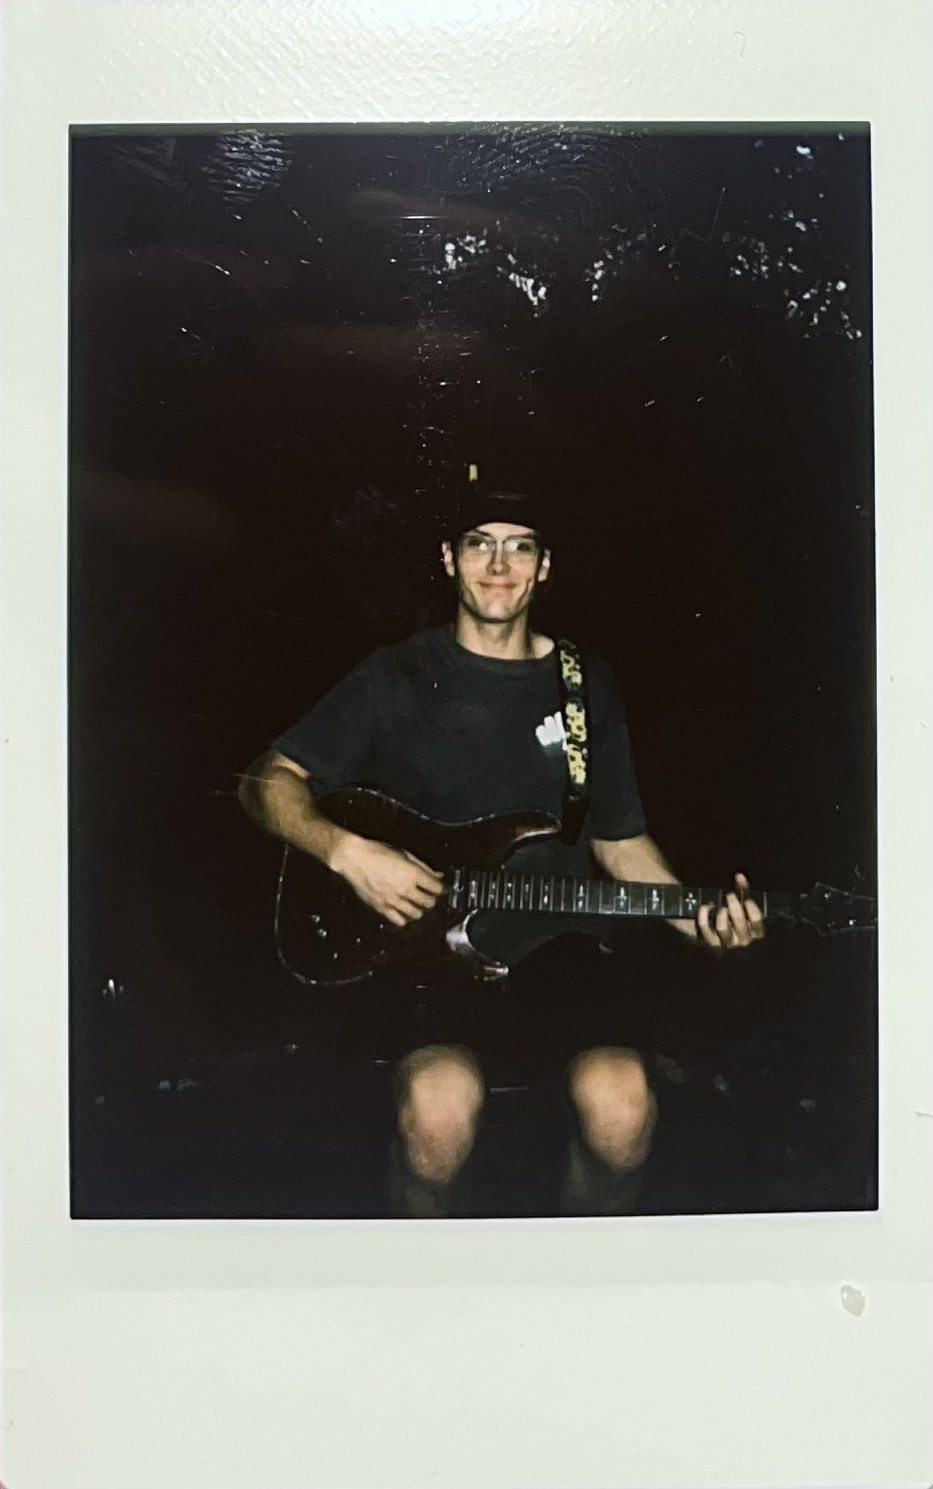
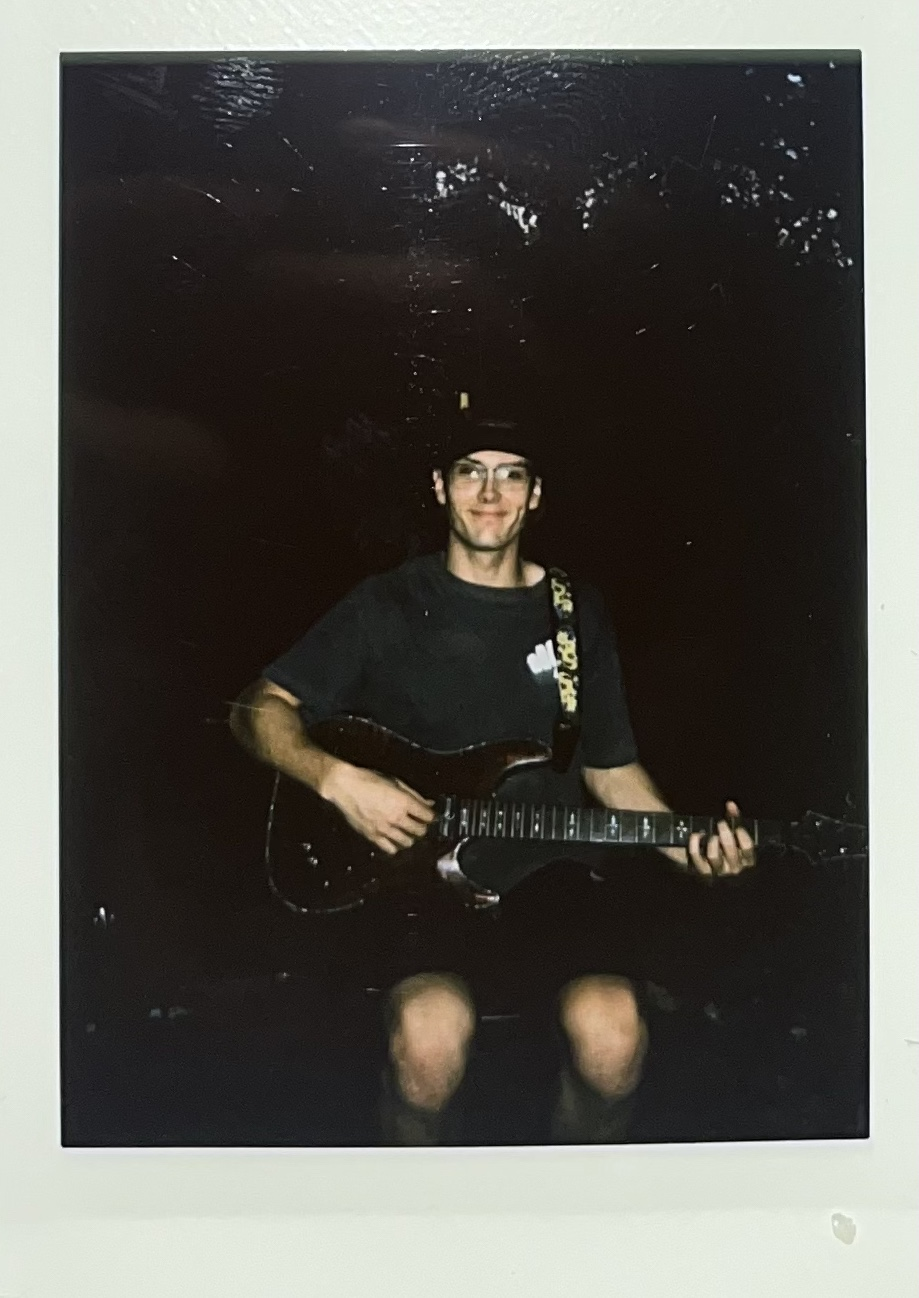
adjusting sizes of polaroids manually fixed the problem

Changed region(s): [[0.0609, 0.0308, 0.9445, 0.8937], [0.6094, 0.1233, 0.6703, 0.1849]]

diff --git a/styles.css b/styles.css
@@ -153,7 +153,9 @@ header {
     flex-wrap: wrap; /* Allows the images to wrap if the screen is too small */
 }
 .slidable-gallery img{
-    max-width: 275px;
+    max-width: 300px;
+    max-height: 275px;
+    object-fit: cover; /* Ensures the image covers the area without distortion */
     padding-left: 20px;
     padding-right: 20px;
 }
